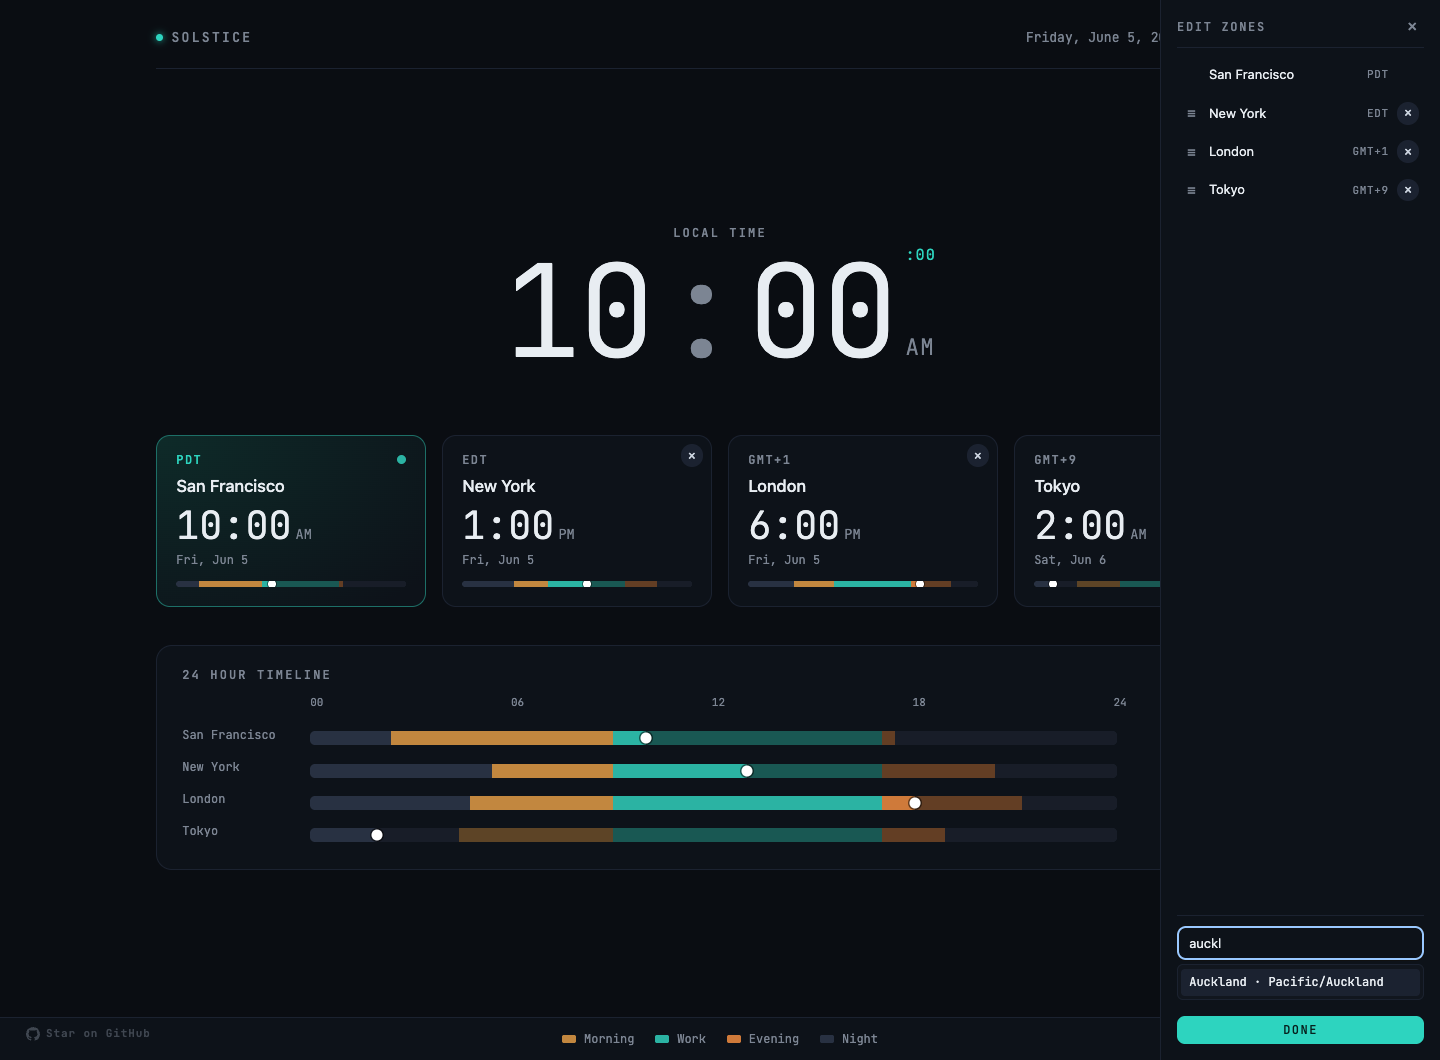
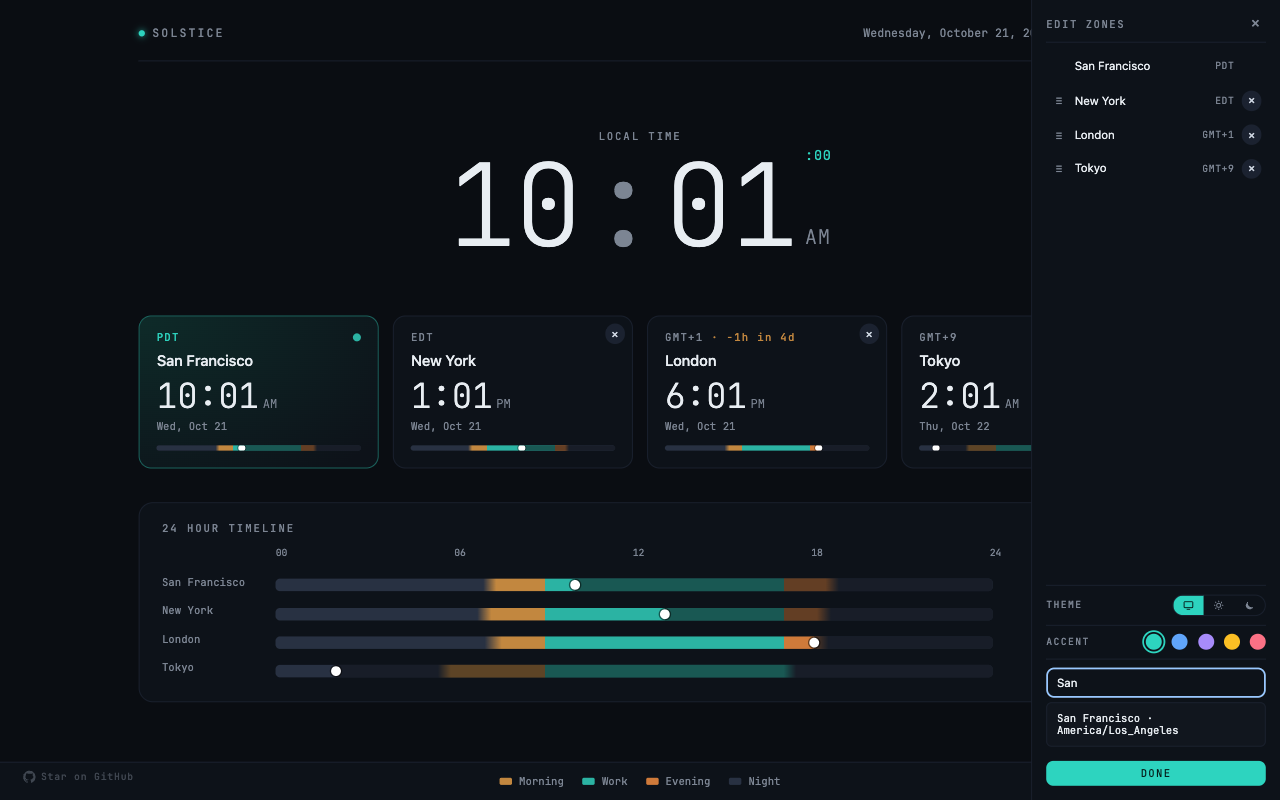
docs: refresh store listing and screenshots for 1.2.0
Five new 1280x800 store screenshots from the 1.2.0 package (dark, light, scrub, Edit panel, accent), refreshed README screenshots and the website's link-preview image, and an updated store description covering daylight saving warnings, twilight, and themes. The promo tile is now marked required, per the current Chrome Web Store image guidelines.

diff --git a/docs/chrome-web-store-listing.md b/docs/chrome-web-store-listing.md
@@ -36,37 +36,42 @@ Contains only runtime files + icons — no docs, tests, screenshots, or README.
 
 ```
 Solstice turns your new tab into a calm map of time: a big local clock up top,
-a card for every place you care about, and a 24-hour timeline below — all
-shaded so you can see, at a glance, where daylight and working hours fall
-across your zones.
+a card for every place you care about, and a 24-hour timeline below.
 
-Warm bands are daytime, grey is night, and a teal band marks the 9-to-5 —
-drawn from each city's real sunrise and sunset. So you can tell who's asleep,
-who's mid-morning, and who's already into their evening.
+Day and night bands follow each city's actual sunrise and sunset. Warm is
+daytime, gray is night, and a teal band marks 9-to-5. Night fades into day
+through twilight. You can tell who's asleep, who's mid-morning, and who's
+already into their evening.
 
-• See daylight and working hours at a glance — colored bands trace each city's
-  real day, so the whole timeline reads in a second.
-• Scrub to any moment — drag any timeline marker and every clock jumps to that
-  instant, so you can find an hour that's civil for the whole group.
-• Yours in seconds — add or remove cities, drag to reorder, rename a zone to a
-  person's name, flip the page between 12h and 24h.
-• Quiet by design — muted palette, monospace numerals, nothing blinking for
+• Jump to any time: drag any timeline marker and every clock moves to that
+  time, so you can find an hour that works for the whole group.
+• Daylight saving warnings: a zone shows "−1h in 4d" the week before daylight
+  saving starts or ends.
+• Light, dark, and accent colors: follow your system or pick a theme, then
+  choose from five accent colors.
+• Yours in seconds: add or remove cities, drag to reorder, rename a zone to a
+  person's name, and switch between 12h and 24h.
+• Quiet by design: muted palette, monospace numerals, nothing blinking for
   your attention.
 
-No accounts, no feeds, no analytics, no tracking. Your settings live in your
-browser. Open a tab, get your bearings, move on.
+Solstice has no accounts, feeds, analytics, or tracking. Your settings are
+stored in your browser. Open a tab, get your bearings, move on.
 ```
 
 ## Assets (all prepared in `assets/store/`)
 
 - **Store icon:** `assets/icons/icon-128.png` (128×128).
-- **Screenshots** (1280×800, upload 2–3):
-  - `assets/store/store-hero.png` — the default view.
-  - `assets/store/store-scrub.png` — scrubbed to noon (the timeline-scrub feature).
-  - `assets/store/store-edit.png` — edit panel + add-a-city search.
-- **Small promo tile** (440×280, optional): `assets/store/store-promo.jpg`
+- **Screenshots** (1280×800, upload all 5; the store allows up to 5). Captured
+  from the 1.2.0 package at Wed, Oct 21, 2026, 10:00 in San Francisco, so
+  London shows the daylight saving chip:
+  - `assets/store/store-hero.png`: the default dark view.
+  - `assets/store/store-light.png`: the light theme.
+  - `assets/store/store-scrub.png`: scrubbed to 4:30 PM.
+  - `assets/store/store-edit.png`: Edit panel with theme, accent, and city search.
+  - `assets/store/store-accent.png`: light theme, violet accent, Edit panel open.
+- **Small promo tile** (440×280, required): `assets/store/store-promo.jpg`
   (JPEG — the dashboard rejects PNGs with an alpha channel).
-  Minimal icon-on-dark tile; only needed if Chrome features the extension.
+  Minimal icon-on-dark tile.
 
 ## Privacy tab (required before submission)
 

diff --git a/README.md b/README.md
@@ -78,7 +78,7 @@ once. Everything you change persists locally between tabs.
 ## Scrub to any moment
 
 <p align="center">
-  <img src="assets/screenshots/scrub.png" width="820" alt="Solstice scrubbed to noon — the big clock, every card, and every timeline frozen at the same instant, with a pause pill in the top-right showing the scrubbed time" />
+  <img src="assets/screenshots/scrub.png" width="820" alt="Solstice scrubbed to 4:30 PM — the big clock, every card, and every timeline frozen at the same instant, with a pause pill in the top-right showing the scrubbed time" />
 </p>
 
 Planning a call? Grab the marker on any timeline row and drag. The big local
